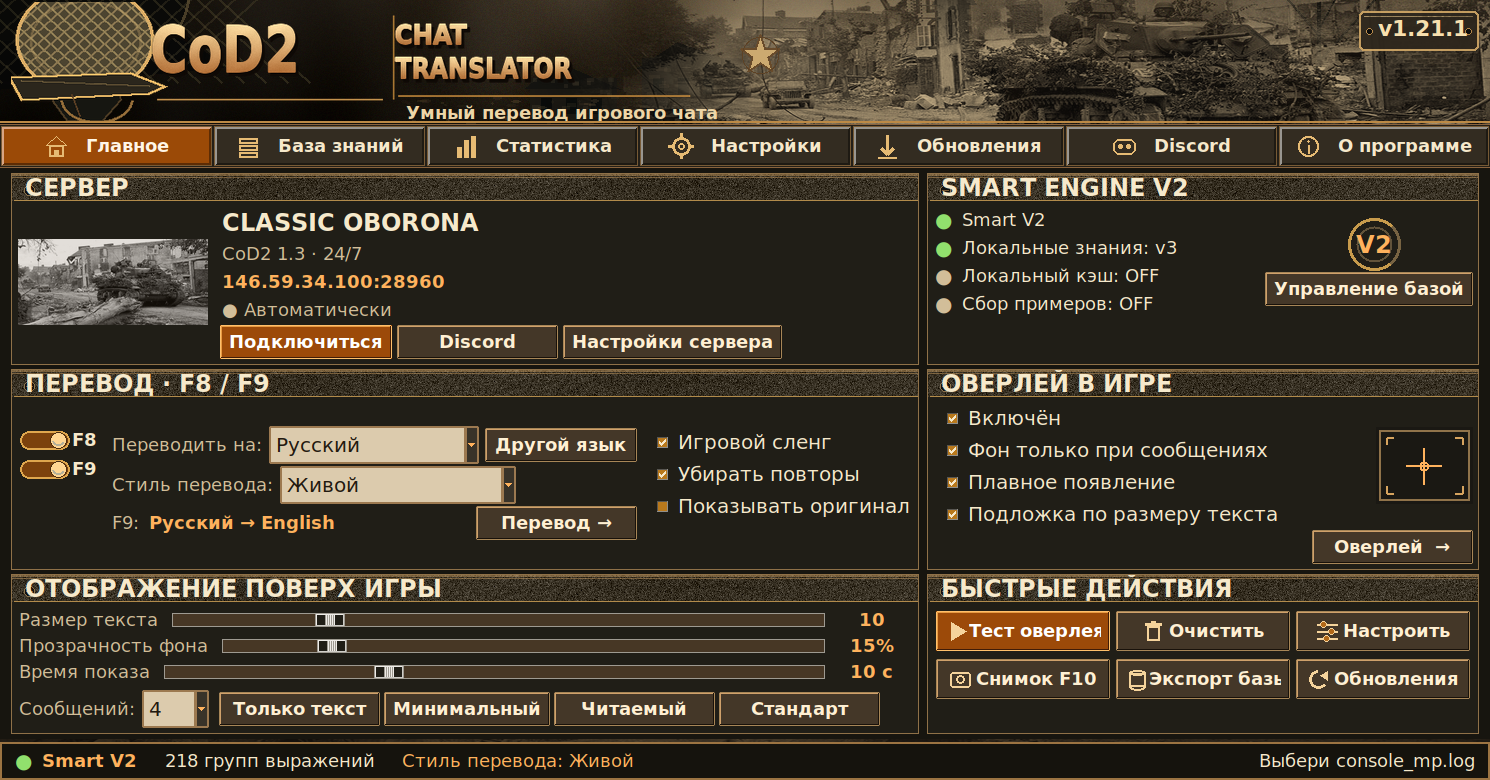
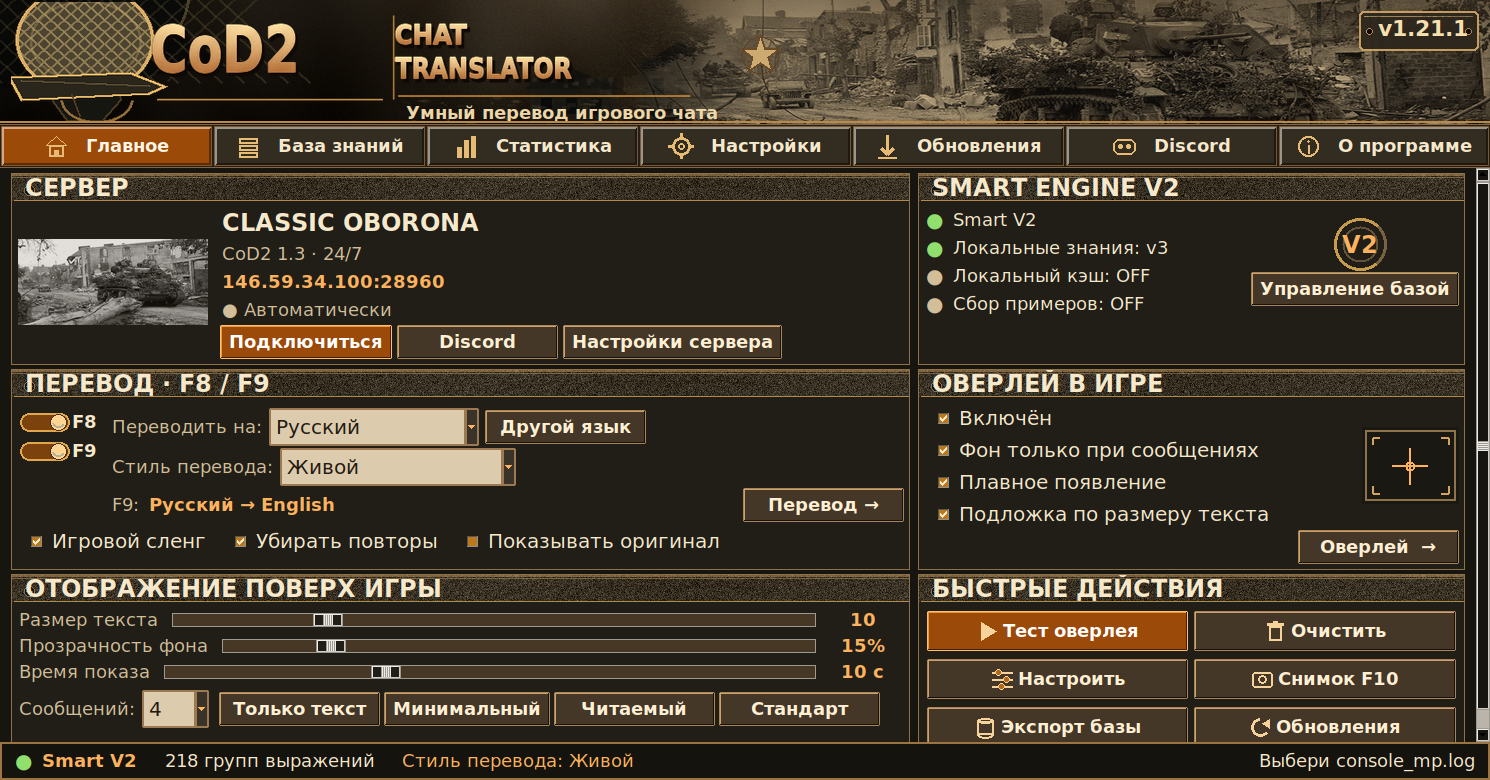
fix: responsive high-DPI reflow without clipping live controls

diff --git a/wwii_dashboard.py b/wwii_dashboard.py
@@ -319,12 +319,42 @@ class WWIIDashboard(Dashboard):
                         lambda:self.navigate("translation")).pack(side="right")
         options=tk.Frame(layout,bg=CARD)
         options.grid(row=0,column=2,sticky="ne",padx=(6,0))
+        flags=[]
         for label,var,command in (
             ("slang",self.app.slang_var,self.app._persist_settings),
             ("dedupe",self.app.dedupe_var,self.app._persist_settings),
             ("original",self.app.show_original_var,self.app.toggle_original),
         ):
-            check(options,tr(self.app,label),var,command).pack(anchor="w",pady=0)
+            widget=check(options,tr(self.app,label),var,command)
+            widget.pack(anchor="w",pady=0)
+            flags.append(widget)
+
+        # High DPI + narrow windows: move the three flags BELOW the
+        # language selectors, instead of clipping the "Other language"
+        # button. This is a real rearrangement of native controls.
+        layout_mode=[False]
+        def fit_translation(event):
+            # Use real requested widths, not a hardcoded DPI/window cutoff.
+            # Keep the flags in a second row whenever all three columns
+            # would clip the Other-language or style controls.
+            required=(modes.winfo_reqwidth()+central.winfo_reqwidth()
+                      +max(w.winfo_reqwidth() for w in flags)+28)
+            narrow=event.width<required
+            if narrow==layout_mode[0]:
+                return
+            layout_mode[0]=narrow
+            options.grid_forget()
+            if narrow:
+                options.grid(row=1,column=0,columnspan=3,sticky="w",pady=(3,0))
+                for control in flags:
+                    control.pack_forget()
+                    control.pack(side="left",padx=(0,12))
+            else:
+                options.grid(row=0,column=2,sticky="ne",padx=(6,0))
+                for control in flags:
+                    control.pack_forget()
+                    control.pack(anchor="w",pady=0)
+        layout.bind("<Configure>",fit_translation)
 
     def _home_overlay(self,p):
         row=tk.Frame(p,bg=CARD)
@@ -370,14 +400,18 @@ class WWIIDashboard(Dashboard):
             slider.pack(side="right",fill="x",expand=True,padx=(12,6))
         options=tk.Frame(p,bg=CARD)
         options.pack(fill="x",pady=(5,0))
+        count_group=tk.Frame(options,bg=CARD)
+        count_group.pack(side="left")
         from app import MIN_OVERLAY_MESSAGES,MAX_OVERLAY_MESSAGES
-        text(options,tr(self.app,"messages")+":",color=MUTED,size=9).pack(side="left")
+        text(count_group,tr(self.app,"messages")+":",color=MUTED,size=9).pack(side="left")
         amount=ttk.Combobox(
-            options,values=list(range(MIN_OVERLAY_MESSAGES,MAX_OVERLAY_MESSAGES+1)),
+            count_group,values=list(range(MIN_OVERLAY_MESSAGES,MAX_OVERLAY_MESSAGES+1)),
             textvariable=self.app.max_messages_var,width=3,state="readonly")
         amount.pack(side="left",padx=(5,10))
         amount.bind("<<ComboboxSelected>>",
                     lambda _e:self.app._max_messages_changed())
+        presets_group=tk.Frame(options,bg=CARD)
+        presets_group.pack(side="left")
         at_high_dpi=float(self.root.tk.call("tk","scaling"))>=1.85
         short_standard={"ru":"Стандарт","uk":"Стандарт","en":"Default"}
         short_text={"ru":"Только текст","uk":"Лише текст","en":"Text only"}
@@ -392,7 +426,27 @@ class WWIIDashboard(Dashboard):
                 caption=short_standard.get(self.app.ui_language,"Default")
             if at_high_dpi and label=="text_only":
                 caption=short_text.get(self.app.ui_language,"Text only")
-            tactical_action(options,caption,callback).pack(side="left",padx=(0,4))
+            tactical_action(presets_group,caption,callback).pack(
+                side="left",padx=(0,4))
+
+        # On 150%-sized text at narrow widths, put all four presets on
+        # their own row instead of cropping the final preset at the edge.
+        appearance_stacked=[False]
+        def fit_presets(event):
+            total=count_group.winfo_reqwidth()+presets_group.winfo_reqwidth()+6
+            stacked=event.width<total
+            if stacked==appearance_stacked[0]:
+                return
+            appearance_stacked[0]=stacked
+            count_group.pack_forget()
+            presets_group.pack_forget()
+            if stacked:
+                count_group.pack(anchor="w")
+                presets_group.pack(anchor="w",pady=(4,0))
+            else:
+                count_group.pack(side="left")
+                presets_group.pack(side="left")
+        options.bind("<Configure>",fit_presets)
 
     def _home_quick(self,p):
         layout=tk.Frame(p,bg=CARD)
@@ -419,13 +473,31 @@ class WWIIDashboard(Dashboard):
                   "export":"Export data","updates":"Updates"},
         }
         labels=short.get(self.app.ui_language,short["en"])
+        quick_buttons=[]
         for i,(name,callback) in enumerate(controls):
             label=labels[name]
             button=tactical_action(layout,label,callback,
                                   primary=name=="test",icon=name)
             button.grid(row=i//3,column=i%3,sticky="nsew",padx=3,pady=4,ipady=2)
+            quick_buttons.append(button)
             if name=="configure":
                 self.app.overlay_edit_button=button
+
+        # 3x2 on normal displays; 2x3 when actual widget measurements
+        # show that high-DPI text cannot fit in the available panel.
+        layout_columns=[3]
+        def fit_actions(event):
+            width_required=3*(max(w.winfo_reqwidth() for w in quick_buttons)+8)
+            columns=3 if event.width>=width_required else 2
+            if columns==layout_columns[0]:
+                return
+            layout_columns[0]=columns
+            for column in range(3):
+                layout.columnconfigure(column,weight=1 if column<columns else 0)
+            for index,button in enumerate(quick_buttons):
+                button.grid_configure(row=index//columns,column=index%columns)
+
+        layout.bind("<Configure>",fit_actions)
 
     def navigate(self,name):
         if name not in self.pages:return False

diff --git a/tools/dashboard_smoke.py b/tools/dashboard_smoke.py
@@ -198,6 +198,17 @@ def main():
                 assert content_height <= viewport_height+3, (
                     f"Home does not fit: {content_height} > {viewport_height}")
                 assert not has_bar, "Unexpected Home scrollbar"
+            # These are actual button extents after Tk layout, not
+            # screenshots judged by a text detector.
+            for widget in descendants(app.dashboard.pages["home"]):
+                if not isinstance(widget,ttk.Button):
+                    continue
+                visible=widget.winfo_width()
+                natural=widget.winfo_reqwidth()
+                if natural>=30 and widget.winfo_ismapped():
+                    assert visible+5 >= natural, (
+                        f"Clipped native action {widget.cget('text')!r}: "
+                        f"{visible}px versus {natural}px required")
             if args.screenshot:
                 # Only take a screenshot when an X11 server and ffmpeg are
                 # explicitly provided. No screenshots are sent anywhere.

diff --git a/tests/test_wwii_ui_contract.py b/tests/test_wwii_ui_contract.py
@@ -71,6 +71,8 @@ class WWIIContractTests(unittest.TestCase):
         self.assertIn('image=ui_photo(parent,"switch_off.png")',UI)
         self.assertIn('selectimage=ui_photo(parent,"switch_on.png")',UI)
         self.assertIn("self._nav_font_size",UI)
+        self.assertIn("fit_translation",UI)
+        self.assertIn("fit_actions",UI)
         self.assertIn("self.home_scrollbar=bar",UI)
         self.assertIn("content.winfo_reqheight()",UI)
         self.assertIn('"brand_logo_compact.png"',UI)

diff --git a/docs/WWII_REBRAND_RC3.md b/docs/WWII_REBRAND_RC3.md
@@ -15,6 +15,16 @@ Larger 1490 × 780 window with the actual background artwork:
 
 ![Actual desktop RC3 window](images/wwii_rebrand_rc3_desktop.png)
 
+At increased Tk font scaling in the narrow 1318 × 678 window,
+native settings automatically reflow into extra rows rather than crop
+the Other Language button, standard preset, or quick action labels:
+
+![Actual high-DPI responsive RC3 window](images/wwii_rebrand_rc3_scale150_compact.png)
+
+The high-DPI narrow layout uses vertical scrolling intentionally to
+keep every control reachable. Native Windows display scaling still
+requires an in-game owner check.
+
 These images are captures of the executable UI under isolated Xvfb/Tk, not
 illustrations or a simulated HTML page. There is no fictional ping, FPS or
 connected-server label, and user files or Telegram content are never uploaded.
